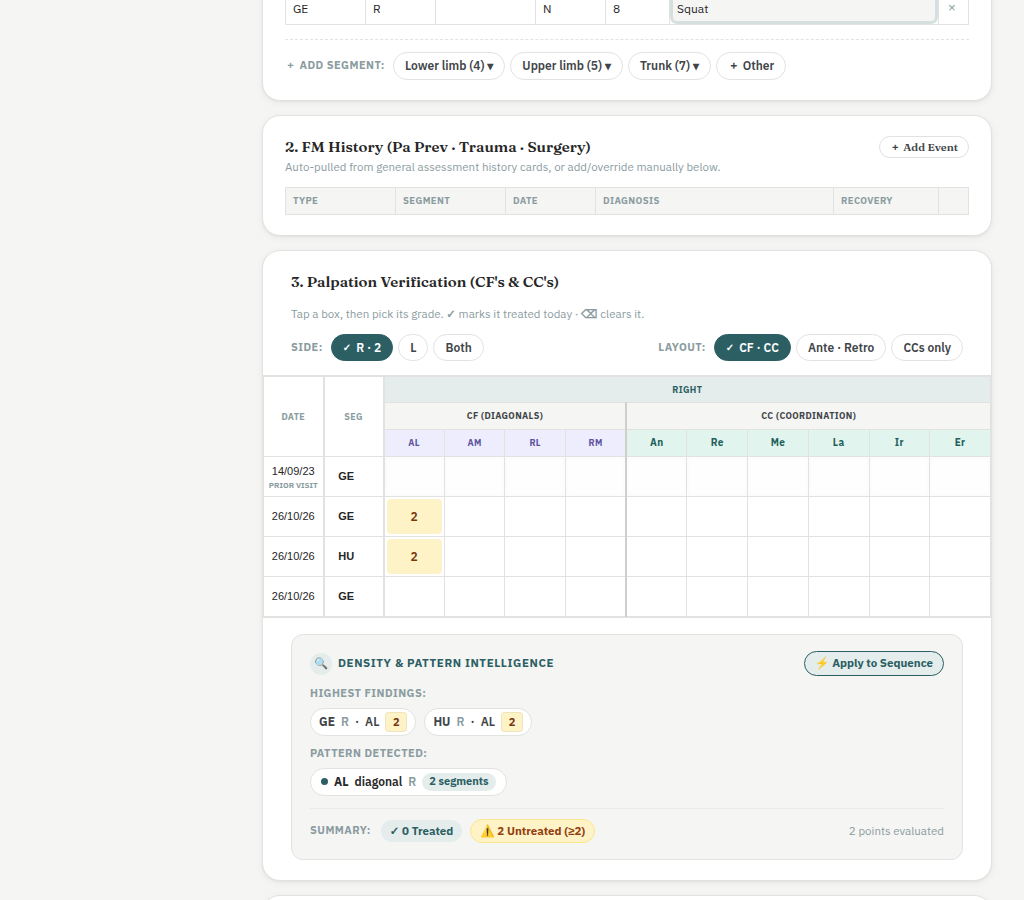
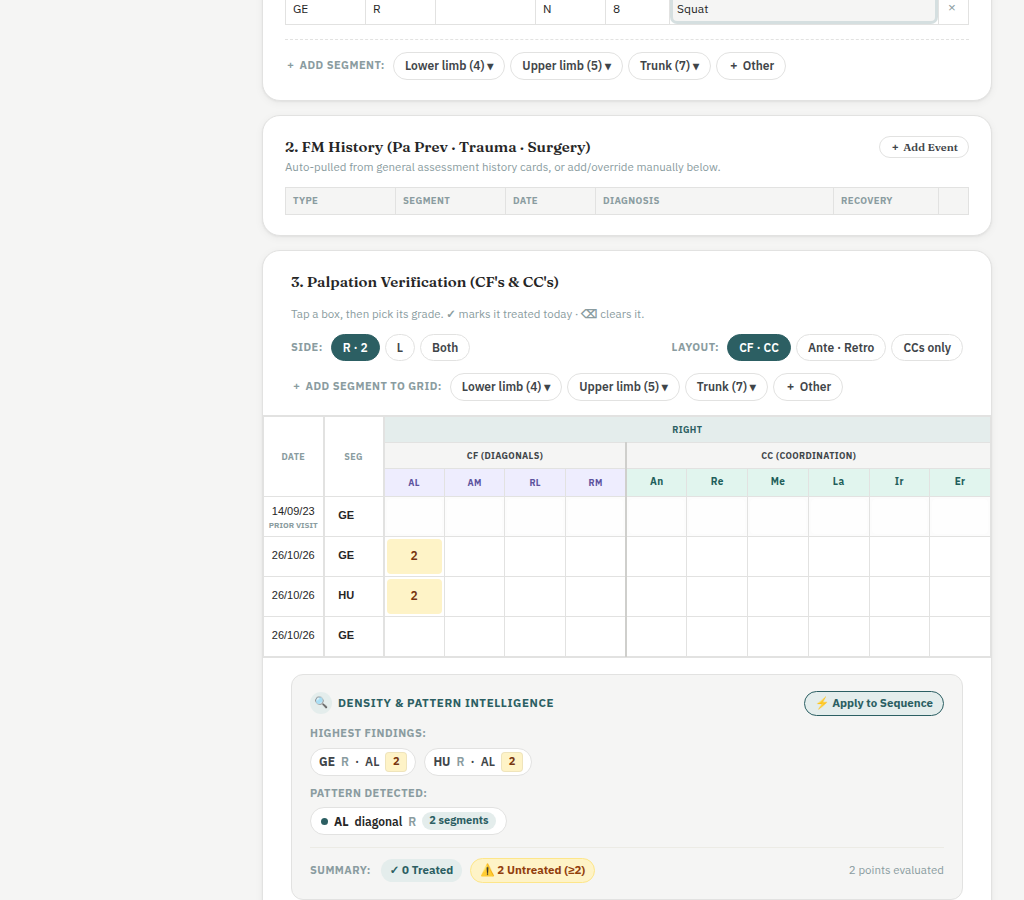
feat(fm): refine mobile segment cards, remove toggle checkmarks, and add direct PV segment picker

diff --git a/clinical-note.html b/clinical-note.html
@@ -680,8 +680,8 @@
     .pv-t th.sticky-col, .pv-t td.sticky-col { box-shadow:2px 0 5px rgba(0,0,0,.08); }
     .pv-t th.sticky-col:nth-child(2), .pv-t td.sticky-col:nth-child(2) { box-shadow:3px 0 6px rgba(0,0,0,.10); }
     .pv-container { -webkit-overflow-scrolling:touch; }
-    #fm-region-tabs, #pv-side-toggle, #pv-layout-toggle { overflow-x:auto; flex-wrap:nowrap; max-width:100%; -webkit-overflow-scrolling:touch; scrollbar-width:none; padding-bottom:2px; }
-    #fm-region-tabs::-webkit-scrollbar, #pv-side-toggle::-webkit-scrollbar, #pv-layout-toggle::-webkit-scrollbar { display:none; }
+    #fm-region-tabs, #pv-add-region-tabs, #pv-side-toggle, #pv-layout-toggle { overflow-x:auto; flex-wrap:nowrap; max-width:100%; -webkit-overflow-scrolling:touch; scrollbar-width:none; padding-bottom:2px; }
+    #fm-region-tabs::-webkit-scrollbar, #pv-add-region-tabs::-webkit-scrollbar, #pv-side-toggle::-webkit-scrollbar, #pv-layout-toggle::-webkit-scrollbar { display:none; }
 
     /* Segment Assessment table-to-card transformation for phones (< 744px) */
     #fm-seg-wrap { overflow-x: visible !important; }
@@ -696,22 +696,22 @@
     #fm-seg-table tbody {
       display: flex !important;
       flex-direction: column !important;
-      gap: 10px !important;
+      gap: 12px !important;
       width: 100% !important;
     }
     #fm-seg-table tbody tr {
       display: grid !important;
-      grid-template-columns: 1.1fr 0.9fr 1fr !important;
+      grid-template-columns: 1.2fr 1fr auto !important;
       grid-template-areas:
         "seg side del"
         "dur traum vrs"
         "pain pain pain" !important;
-      gap: 8px !important;
-      padding: 10px 12px !important;
+      gap: 10px 10px !important;
+      padding: 14px !important;
       background: #fff !important;
       border: 1px solid var(--line) !important;
-      border-radius: var(--radius-sm, 8px) !important;
-      box-shadow: 0 1px 3px rgba(0,0,0,0.03) !important;
+      border-radius: 10px !important;
+      box-shadow: 0 1px 4px rgba(0,0,0,0.04) !important;
       position: relative !important;
       width: 100% !important;
       box-sizing: border-box !important;
@@ -719,6 +719,7 @@
     #fm-seg-table tr.fm-auto-row {
       background: var(--context-dim, #f0f7f7) !important;
       border-color: var(--context, #008080) !important;
+      border-left: 4px solid var(--context, #008080) !important;
     }
     #fm-seg-table tbody tr td {
       display: flex !important;
@@ -737,36 +738,64 @@
     #fm-seg-table td:nth-child(7) {
       grid-area: del !important;
       align-items: flex-end !important;
-      justify-content: flex-start !important;
+      justify-content: flex-end !important;
+      padding-bottom: 2px !important;
     }
     #fm-seg-table td:nth-child(7) button {
-      width: 28px !important;
-      height: 28px !important;
-      line-height: 28px !important;
-      font-size: 20px !important;
+      width: 32px !important;
+      height: 32px !important;
+      line-height: 1 !important;
+      font-size: 18px !important;
       color: var(--ink-faint) !important;
-      border-radius: 4px !important;
+      border-radius: 6px !important;
       background: var(--surface) !important;
-      border: 1px solid var(--line-soft) !important;
+      border: 1px solid var(--line) !important;
       cursor: pointer !important;
       display: inline-flex !important;
       align-items: center !important;
       justify-content: center !important;
+      transition: all 0.15s ease !important;
     }
-    #fm-seg-table td:nth-child(1)::before { content: 'Segment'; font-size: 9.5px; font-weight: 700; color: var(--ink-faint); margin-bottom: 2px; text-transform: uppercase; letter-spacing: 0.03em; }
-    #fm-seg-table td:nth-child(2)::before { content: 'Side'; font-size: 9.5px; font-weight: 700; color: var(--ink-faint); margin-bottom: 2px; text-transform: uppercase; letter-spacing: 0.03em; }
-    #fm-seg-table td:nth-child(3)::before { content: 'Duration'; font-size: 9.5px; font-weight: 700; color: var(--ink-faint); margin-bottom: 2px; text-transform: uppercase; letter-spacing: 0.03em; }
-    #fm-seg-table td:nth-child(4)::before { content: 'Trauma?'; font-size: 9.5px; font-weight: 700; color: var(--ink-faint); margin-bottom: 2px; text-transform: uppercase; letter-spacing: 0.03em; }
-    #fm-seg-table td:nth-child(5)::before { content: 'VRS (0–10)'; font-size: 9.5px; font-weight: 700; color: var(--ink-faint); margin-bottom: 2px; text-transform: uppercase; letter-spacing: 0.03em; }
-    #fm-seg-table td:nth-child(6)::before { content: 'Painful Movements'; font-size: 9.5px; font-weight: 700; color: var(--ink-faint); margin-bottom: 2px; text-transform: uppercase; letter-spacing: 0.03em; }
+    #fm-seg-table td:nth-child(7) button:hover {
+      background: #FEE2E2 !important;
+      border-color: #FCA5A5 !important;
+      color: #DC2626 !important;
+    }
+    #fm-seg-table td:nth-child(1)::before { content: 'Segment'; font-size: 10px; font-weight: 700; color: var(--ink-faint); margin-bottom: 4px; text-transform: uppercase; letter-spacing: 0.04em; }
+    #fm-seg-table td:nth-child(2)::before { content: 'Side'; font-size: 10px; font-weight: 700; color: var(--ink-faint); margin-bottom: 4px; text-transform: uppercase; letter-spacing: 0.04em; }
+    #fm-seg-table td:nth-child(3)::before { content: 'Duration'; font-size: 10px; font-weight: 700; color: var(--ink-faint); margin-bottom: 4px; text-transform: uppercase; letter-spacing: 0.04em; }
+    #fm-seg-table td:nth-child(4)::before { content: 'Trauma?'; font-size: 10px; font-weight: 700; color: var(--ink-faint); margin-bottom: 4px; text-transform: uppercase; letter-spacing: 0.04em; }
+    #fm-seg-table td:nth-child(5)::before { content: 'VRS (0–10)'; font-size: 10px; font-weight: 700; color: var(--ink-faint); margin-bottom: 4px; text-transform: uppercase; letter-spacing: 0.04em; }
+    #fm-seg-table td:nth-child(6)::before { content: 'Painful Movements'; font-size: 10px; font-weight: 700; color: var(--ink-faint); margin-bottom: 4px; text-transform: uppercase; letter-spacing: 0.04em; }
+    #fm-seg-table td:nth-child(7)::before { content: '' !important; display: none !important; }
     #fm-seg-table td input, #fm-seg-table td select {
       width: 100% !important;
       box-sizing: border-box !important;
-      font-size: 12px !important;
-      padding: 5px 7px !important;
+      font-size: 13px !important;
+      padding: 6px 10px !important;
+      border: 1px solid var(--line) !important;
       border-radius: 6px !important;
-      height: 30px !important;
+      background: #FAFAFA !important;
+      color: var(--ink) !important;
+      height: 34px !important;
+      display: block !important;
+      transition: border-color 0.15s ease, background 0.15s ease, box-shadow 0.15s ease !important;
     }
+    #fm-seg-table td input:focus, #fm-seg-table td select:focus {
+      background: #fff !important;
+      border-color: var(--clinical) !important;
+      box-shadow: 0 0 0 2px var(--clinical-dim) !important;
+      outline: none !important;
+    }
+  }
+
+  /* Remove tick marks from side toggle, layout toggle, and region tabs where active color highlight is sufficient */
+  #pv-side-toggle .chip.selected::before,
+  #pv-layout-toggle .chip.selected::before,
+  #fm-region-tabs .chip.selected::before,
+  #pv-add-region-tabs .chip.selected::before {
+    display: none !important;
+    content: none !important;
   }
 
   /* CSS-only check indicator for selected chips (replaces inline SVG) */
@@ -2379,6 +2408,20 @@
               <button type="button" class="chip" data-pv-layout="cc-only" title="Hide CF diagonals (Level 1 focus)">CCs only</button>
             </div>
           </div>
+        </div>
+
+        <!-- Add Segment Directly to PV Grid Toolbar -->
+        <div style="padding:0 28px; margin-top:12px; display:flex; align-items:center; flex-wrap:wrap; gap:8px;">
+          <span style="font-size:11px; font-weight:700; color:var(--ink-faint); text-transform:uppercase; letter-spacing:.04em;">＋ Add Segment to Grid:</span>
+          <div class="chip-row" id="pv-add-region-tabs">
+            <button type="button" class="chip" data-region="Lower limb">Lower limb (4) ▾</button>
+            <button type="button" class="chip" data-region="Upper limb">Upper limb (5) ▾</button>
+            <button type="button" class="chip" data-region="Trunk">Trunk (7) ▾</button>
+            <button type="button" class="chip" id="pv-add-seg-custom" title="Add custom segment row to grid">＋ Other</button>
+          </div>
+        </div>
+        <div id="pv-region-drawer" style="margin:10px 28px 0; display:none; padding:10px 12px; background:var(--surface); border:1px solid var(--line); border-radius:var(--radius-sm);">
+          <div id="pv-region-chips" class="chip-row" style="gap:6px;"></div>
         </div>
         
         <!-- Desktop Sticky Table -->
@@ -8599,7 +8642,47 @@ setupSegmented('patient-progress');
         `).join('');
         drawer.style.display = 'block';
     }
-    window.toggleFmRegion = toggleFmRegion;
+    let activePvRegion = null;
+    function togglePvRegion(region) {
+        const drawer = document.getElementById('pv-region-drawer');
+        const chipsContainer = document.getElementById('pv-region-chips');
+        const tabs = document.querySelectorAll('#pv-add-region-tabs button[data-region]');
+        if (!drawer || !chipsContainer) return;
+
+        if (activePvRegion === region) {
+            drawer.style.display = 'none';
+            activePvRegion = null;
+            tabs.forEach(tab => {
+                tab.classList.remove('selected');
+                const reg = tab.getAttribute('data-region');
+                const count = (window.FM_SEGMENT_DETAILS[reg] || []).length;
+                tab.textContent = `${reg} (${count}) ▾`;
+            });
+            return;
+        }
+
+        activePvRegion = region;
+        tabs.forEach(tab => {
+            const reg = tab.getAttribute('data-region');
+            const count = (window.FM_SEGMENT_DETAILS[reg] || []).length;
+            if (reg === region) {
+                tab.classList.add('selected');
+                tab.textContent = `${reg} (${count}) ▴`;
+            } else {
+                tab.classList.remove('selected');
+                tab.textContent = `${reg} (${count}) ▾`;
+            }
+        });
+
+        const list = window.FM_SEGMENT_DETAILS[region] || [];
+        chipsContainer.innerHTML = list.map(item => `
+            <button type="button" class="chip pv-seg-chip" data-seg="${item.code}" title="${item.name}" style="font-size:12px; padding:5px 10px;">
+                <b>${item.code}</b> <span style="color:var(--ink-faint); font-weight:normal; margin-left:3px;">– ${item.label || item.name}</span>
+            </button>
+        `).join('');
+        drawer.style.display = 'block';
+    }
+    window.togglePvRegion = togglePvRegion;
 
     (function initSegmentPicker() {
         const dl = document.getElementById('fm-seg-codes');
@@ -8621,6 +8704,34 @@ setupSegmented('patient-progress');
                 if (!chip) return;
                 const today = new Date().toLocaleDateString('en-GB', {day:'2-digit', month:'2-digit', year:'2-digit'});
                 addFmSegment(today, chip.getAttribute('data-seg'));
+            });
+        }
+
+        // Direct PV Grid Segment Picker
+        const pvRegionTabs = document.getElementById('pv-add-region-tabs');
+        if (pvRegionTabs) {
+            pvRegionTabs.addEventListener('click', function(e) {
+                const tab = e.target.closest('button[data-region]');
+                if (!tab) return;
+                togglePvRegion(tab.getAttribute('data-region'));
+            });
+        }
+
+        const pvDrawer = document.getElementById('pv-region-drawer');
+        if (pvDrawer) {
+            pvDrawer.addEventListener('click', function(e) {
+                const chip = e.target.closest('.pv-seg-chip');
+                if (!chip) return;
+                const today = new Date().toLocaleDateString('en-GB', {day:'2-digit', month:'2-digit', year:'2-digit'});
+                addFmSegment(today, chip.getAttribute('data-seg'));
+            });
+        }
+
+        const pvAddCustomBtn = document.getElementById('pv-add-seg-custom');
+        if (pvAddCustomBtn) {
+            pvAddCustomBtn.addEventListener('click', function() {
+                const today = new Date().toLocaleDateString('en-GB', {day:'2-digit', month:'2-digit', year:'2-digit'});
+                addFmSegment(today, "");
             });
         }
     })();
